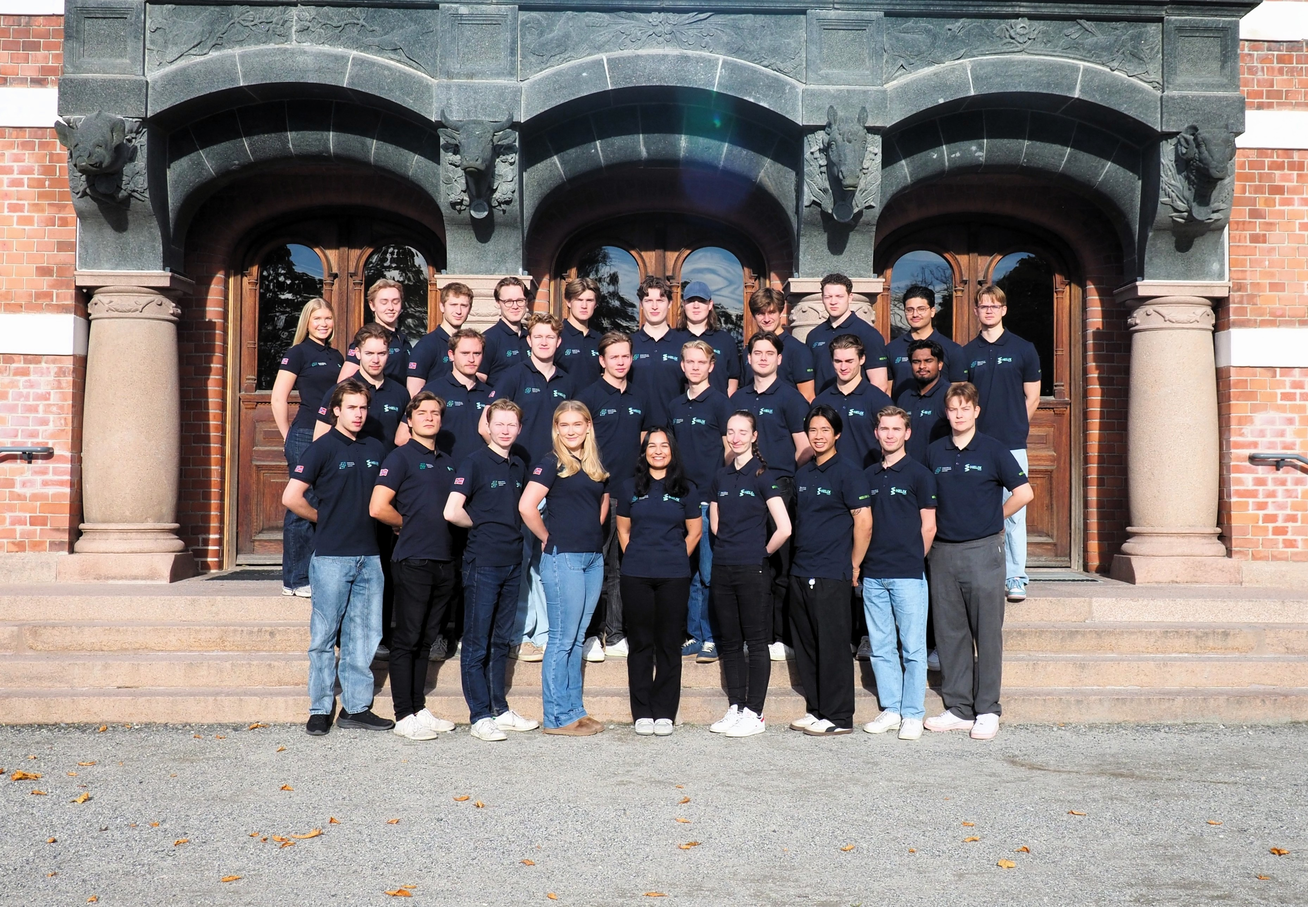
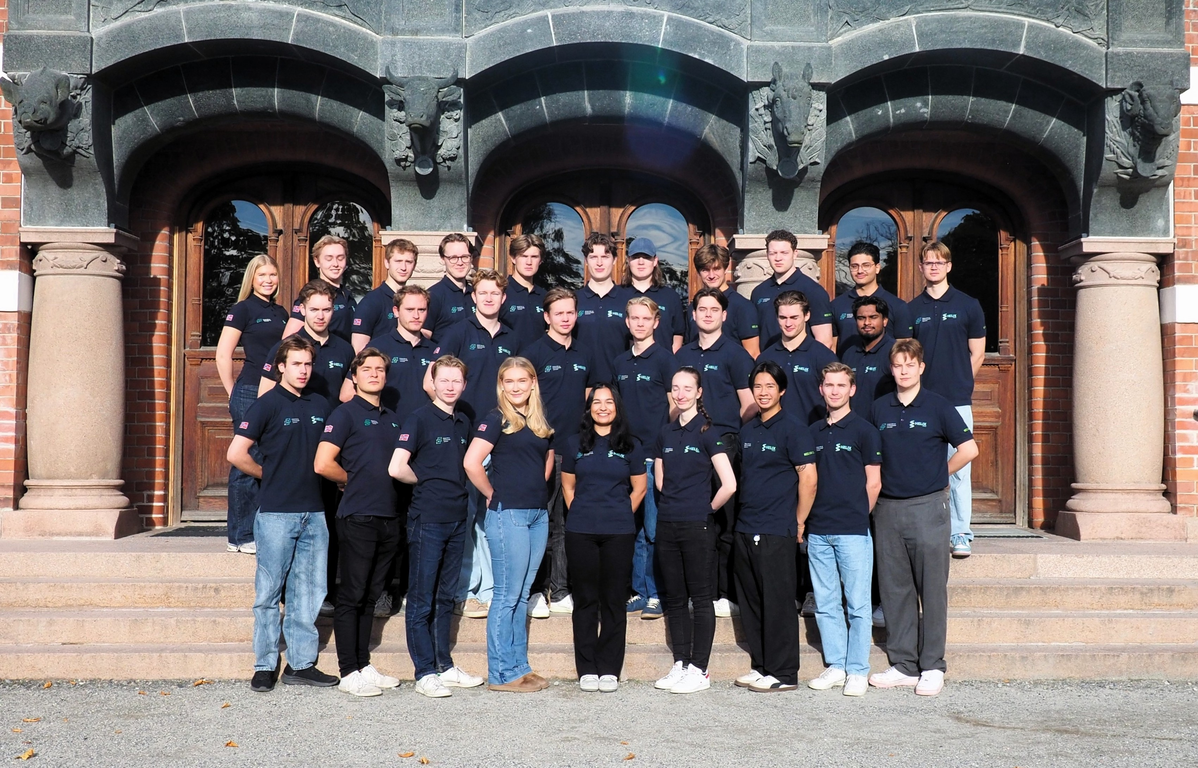
Lagt til mer på frontpage

diff --git a/src/libs/components/Frontpage.tsx b/src/libs/components/Frontpage.tsx
@@ -1,0 +1,36 @@
+export default function Frontpage() {
+  return (
+<div className="mt-28 mb-28 py-12 dark:bg-slate-900">
+
+    <div className="max-w-screen-md mx-auto text-center">
+        <h1 className="mb-4 text-3xl font-bold">What is<span className="text-accent"> Helix NMBU?</span></h1>
+        <p className="text-white">
+Helix NMBU is a Formula Student team at Norwegian University of Life Sciences (NMBU). The team aims to be a platform where students can develop technical skills and challenge themselves in innovation, entrepreneurship, marketing, finance and technological development to reach a common goal. </p>
+    </div>
+
+    <div className="flex flex-col justify-center space-y-5 md:flex-row md:space-y-0 md:space-x-6 lg:space-x-10 mt-7 mb-8">
+        <div className="relative md:w-5/12">
+            <img className="rounded-2xl" src="/lagbilde_2025.JPG" />
+            <div className="absolute transform -translate-x-1/2 -translate-y-1/2 top-1/2 left-1/2">
+                <h1 className="text-white mb-3 font-bold text-center uppercase lg:text-xl">About us</h1>
+                <button className="w-full px-6 py-3 text-xs bg-white text-slate-900 transition duration-300 ease-in-out transform rounded-full lg:text-md focus:outline-none hover:scale-110 hover:bg-gray-100 font-medium">Learn more</button>
+            </div>
+        </div>
+
+        <div className="relative md:w-5/12 overflow-hidden rounded-2xl">
+            <img className="w-full h-auto" src="/lagbilde.jpg" />
+            {/* FS logo overlay - top centered, clipped by the rounded container */}
+            <img
+                src="/Updated_05_22/PNG/FS%20Logo%20Positive%20Print.png"
+                alt="FS Logo"
+                 className="pointer-events-none absolute left-1/2 top-1/2 transform -translate-x-1/2 -translate-y-1/2 w-[65%] md:w-[65%] lg:w-[70%] z-15"
+            />
+            <div className="absolute transform -translate-x-1/2 -translate-y-1/2 top-1/2 left-1/2 z-30">
+                <button className=" w-full px-6 py-3 text-xs bg-white text-muted transition duration-300 ease-in-out transform rounded-full lg:text-md focus:outline-none hover:scale-110 hover:bg-gray-100 font-medium">Go to Website</button>
+            </div>
+        </div>
+    </div>
+</div>
+
+     );
+}

diff --git a/src/pages/Homepage.tsx b/src/pages/Homepage.tsx
@@ -1,5 +1,6 @@
 import AutoplayCarousel from "../libs/components/sponsorcarousel";
 import HeroSection from "../libs/components/herosection";
+import Frontpage from "@components//Frontpage";
 
 const Homepage = () => {
   return (
@@ -9,6 +10,7 @@ const Homepage = () => {
       <section className="mt-8">
         <AutoplayCarousel />
       </section>
+      <Frontpage />
     </div>
   );
 };

diff --git a/src/global.css b/src/global.css
@@ -61,7 +61,7 @@
   --primary-foreground: oklch(0.985 0 0);
   --secondary: #a3f9eb;
   --secondary-foreground: oklch(0.205 0 0);
-  --muted: oklch(0.97 0 0);
+  --muted: #ec7235;
   --muted-foreground: oklch(0.556 0 0);
   --accent: #63e4ca;
   --accent-foreground: oklch(0.205 0 0);
